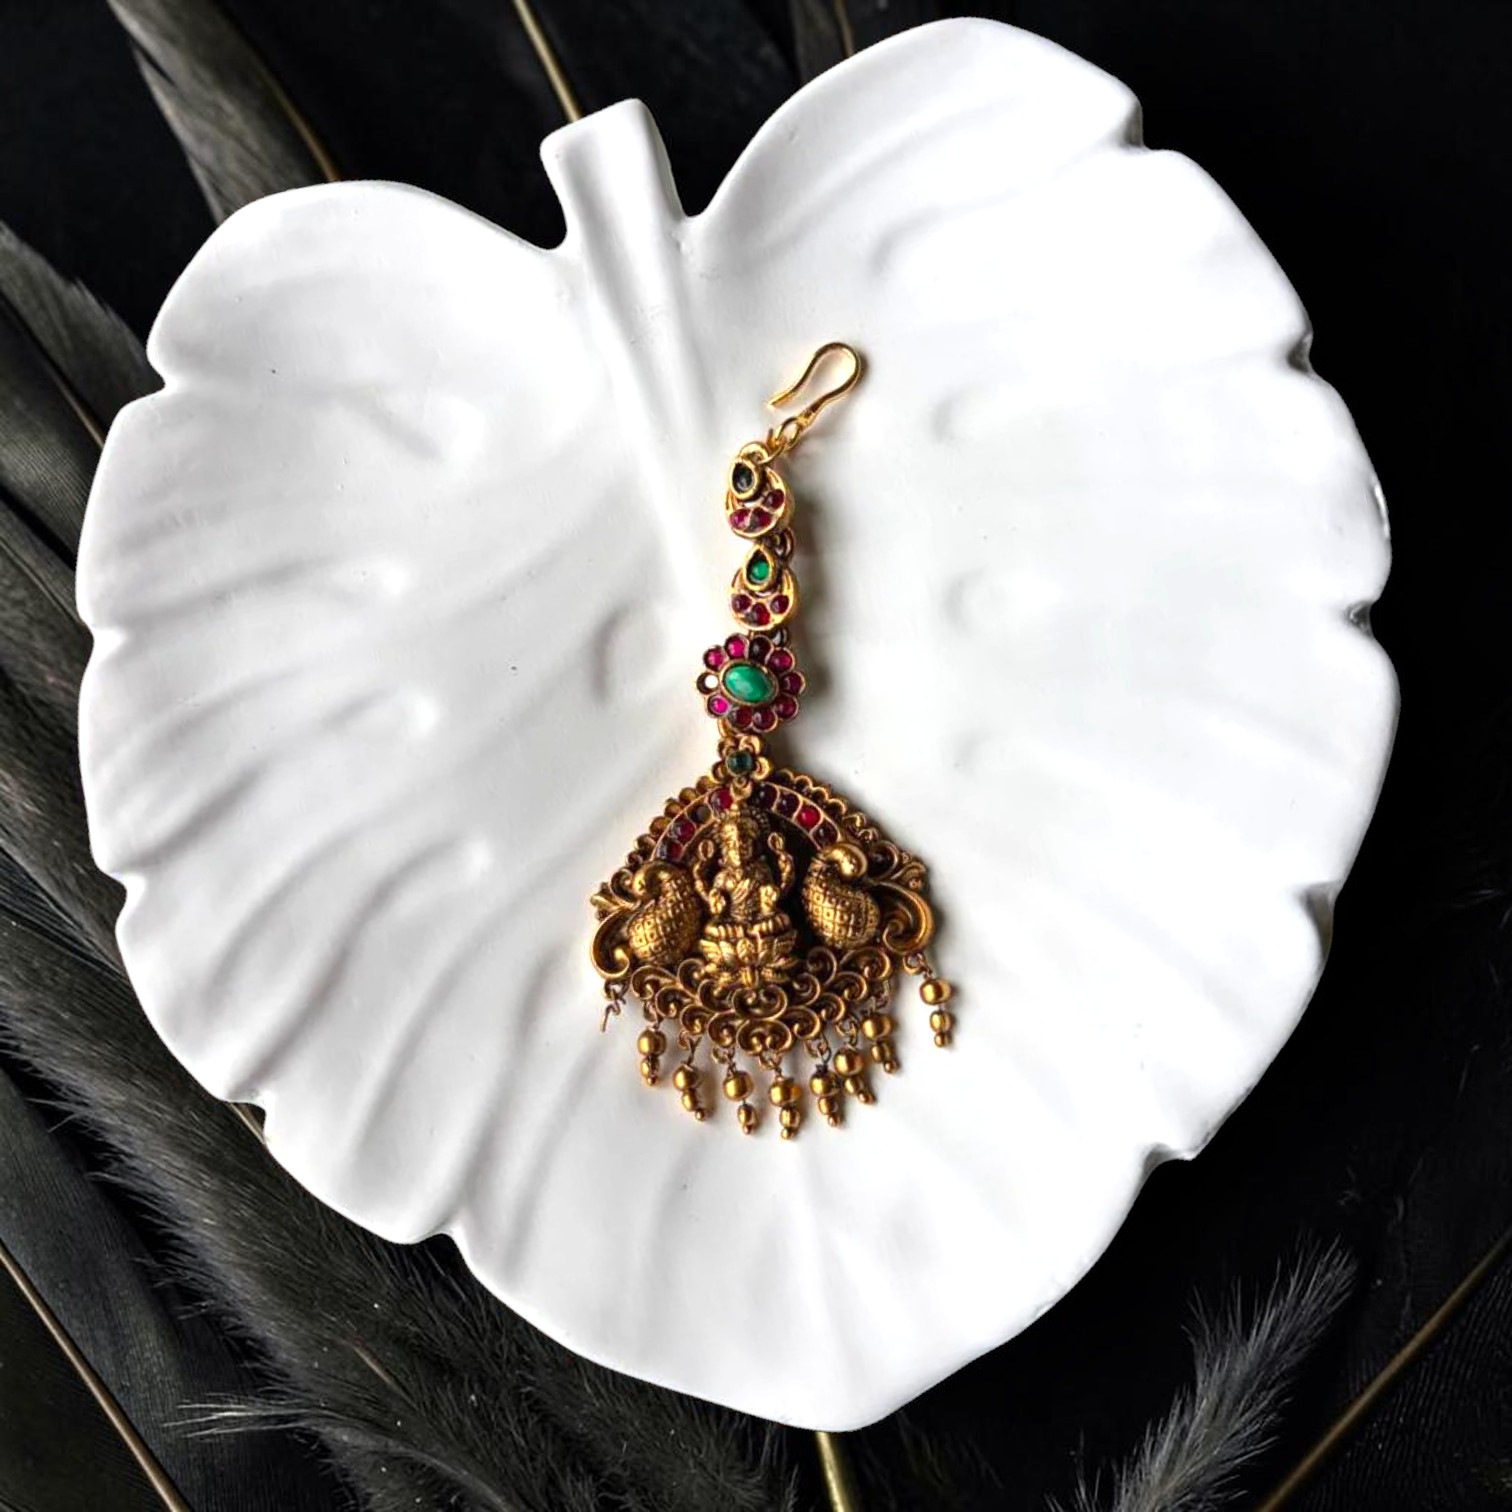
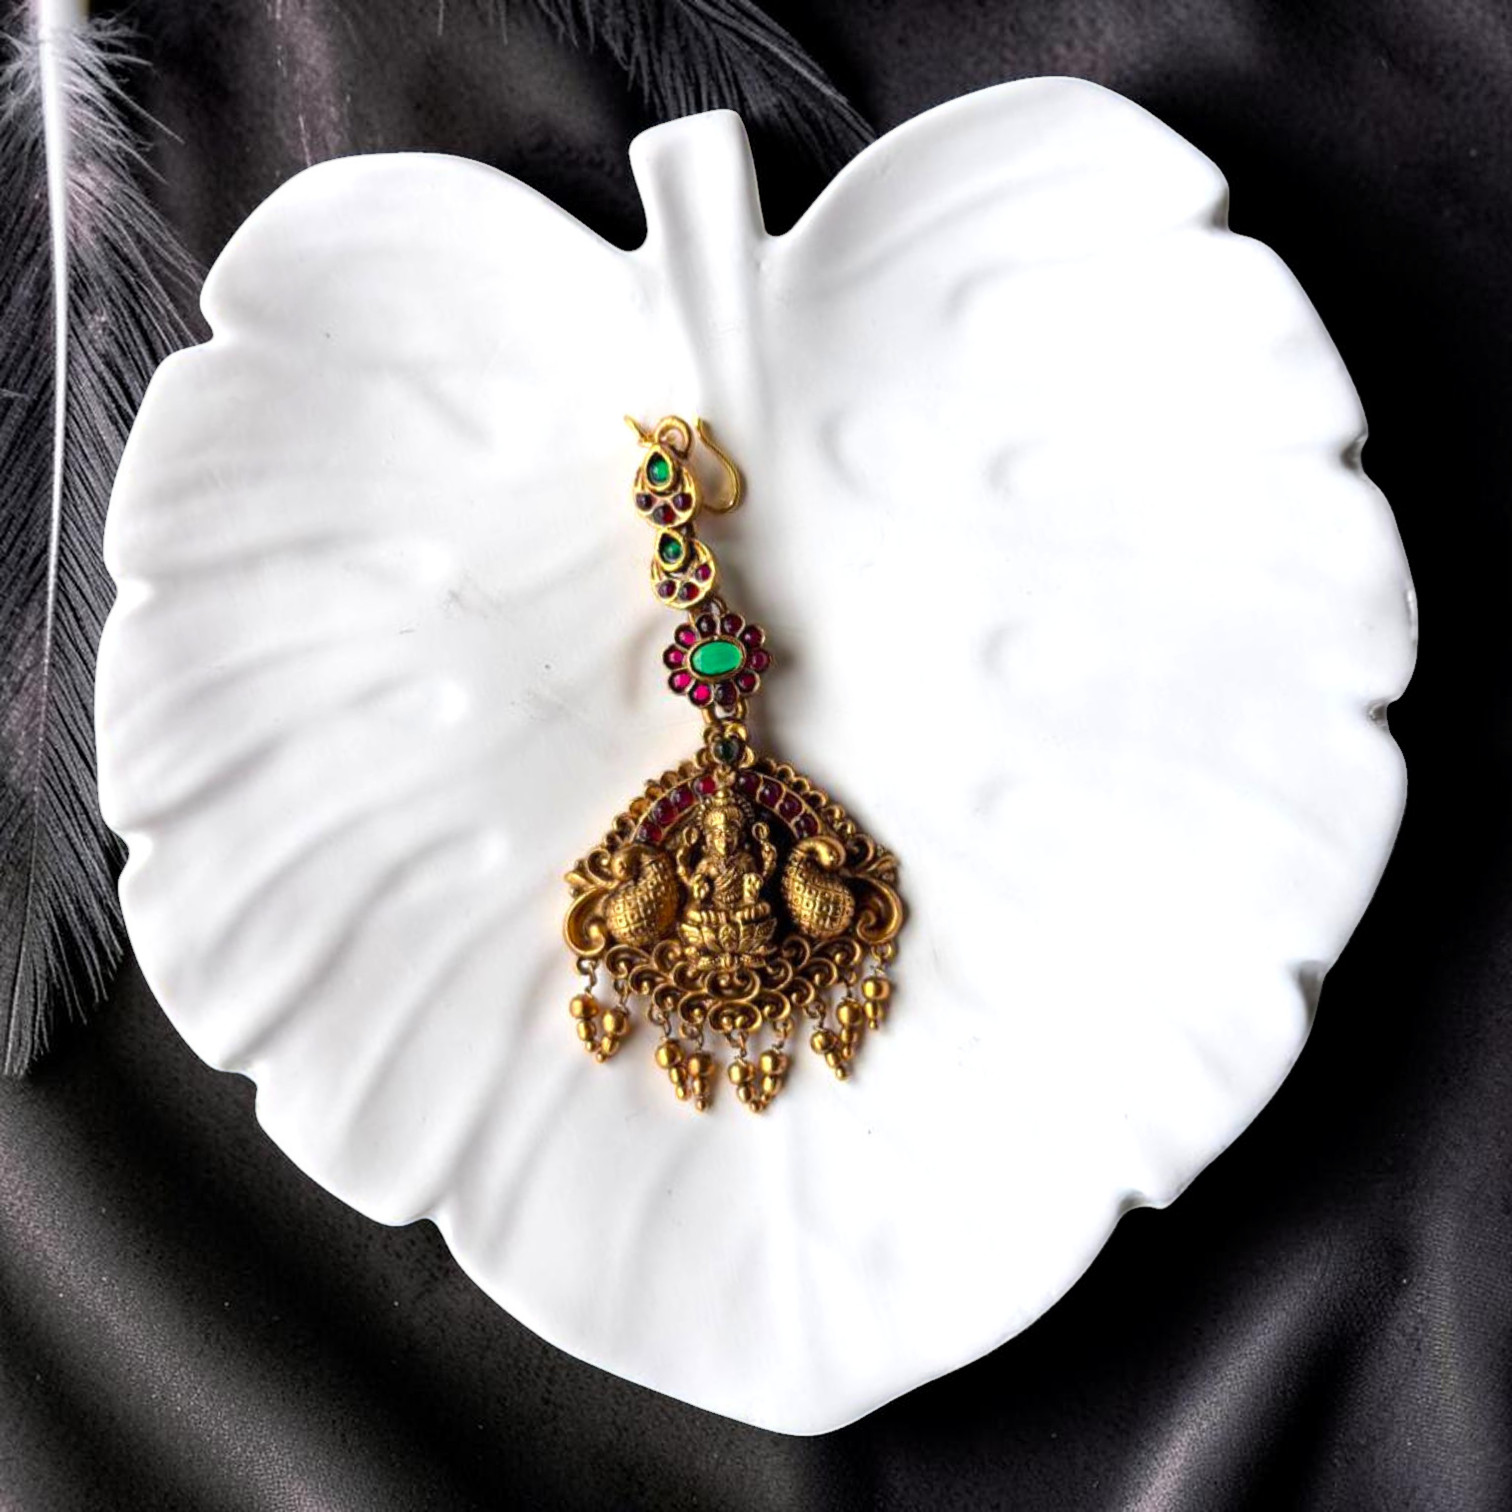
Add files via upload

diff --git a/api/notify-requests.js b/api/notify-requests.js
@@ -1,0 +1,102 @@
+const { getSql, readJson, requireAdmin, send } = require('./_db');
+
+async function ensureNotifyTable(sql) {
+  await sql`
+    create table if not exists notify_requests (
+      id serial primary key,
+      product_id integer references products(id) on delete cascade,
+      product_name text not null,
+      customer_name text,
+      email text not null,
+      status text not null default 'waiting',
+      notified_at timestamptz,
+      created_at timestamptz not null default now(),
+      updated_at timestamptz not null default now()
+    )
+  `;
+
+  await sql`
+    create index if not exists notify_requests_product_email_idx
+    on notify_requests (product_id, email)
+  `;
+}
+
+module.exports = async function handler(request, response) {
+  try {
+    const sql = getSql();
+    await ensureNotifyTable(sql);
+
+    if (request.method === 'POST') {
+      const body = await readJson(request);
+      const productId = Number(body.product_id);
+      const email = String(body.email || '').trim().toLowerCase();
+      const customerName = String(body.customer_name || '').trim();
+
+      if (!productId) return send(response, 400, { error: 'Product is required' });
+      if (!email || !email.includes('@')) return send(response, 400, { error: 'Valid email is required' });
+
+      const product = await sql`
+        select id, name, stock
+        from products
+        where id = ${productId} and active = true
+      `;
+
+      if (!product.length) return send(response, 404, { error: 'Product not found' });
+      if (Number(product[0].stock) > 0) return send(response, 400, { error: 'This product is already available' });
+
+      const existing = await sql`
+        select id
+        from notify_requests
+        where product_id = ${productId} and lower(email) = ${email}
+        limit 1
+      `;
+
+      const created = existing.length ? await sql`
+        update notify_requests
+        set customer_name = ${customerName}, status = 'waiting', notified_at = null, updated_at = now()
+        where id = ${existing[0].id}
+        returning id
+      ` : await sql`
+        insert into notify_requests (product_id, product_name, customer_name, email, status, updated_at)
+        values (${productId}, ${product[0].name}, ${customerName}, ${email}, 'waiting', now())
+        returning id
+      `;
+
+      return send(response, 200, { ok: true, id: created[0].id });
+    }
+
+    if (!requireAdmin(request, response)) return;
+
+    if (request.method === 'GET') {
+      const requests = await sql`
+        select n.id, n.product_id, n.product_name, n.customer_name, n.email, n.status, n.notified_at, n.created_at,
+          p.stock, p.image
+        from notify_requests n
+        left join products p on p.id = n.product_id
+        order by n.created_at desc
+      `;
+      return send(response, 200, { requests });
+    }
+
+    if (request.method === 'PATCH') {
+      const body = await readJson(request);
+      const id = Number(body.id);
+      const status = String(body.status || '').trim();
+      if (!id || !status) return send(response, 400, { error: 'Request id and status are required' });
+
+      const updated = await sql`
+        update notify_requests
+        set status = ${status}, updated_at = now()
+        where id = ${id}
+        returning id
+      `;
+      return send(response, 200, { ok: Boolean(updated.length) });
+    }
+
+    return send(response, 405, { error: 'Method not allowed' });
+  } catch (error) {
+    return send(response, 500, { error: error.message || 'Unable to save notify request' });
+  }
+};
+
+module.exports.ensureNotifyTable = ensureNotifyTable;

diff --git a/api/admin-products.js b/api/admin-products.js
@@ -1,4 +1,6 @@
 const { getSql, readJson, requireAdmin, send } = require('./_db');
+const { sendEmail } = require('./_email');
+const { ensureNotifyTable } = require('./notify-requests');
 
 function normalizeProduct(body) {
   return {
@@ -13,6 +15,46 @@ function normalizeProduct(body) {
     image: String(body.image || '').trim(),
     collectionId: Number(body.collection_id) || null
   };
+}
+
+async function sendRestockNotifications(sql, product) {
+  await ensureNotifyTable(sql);
+
+  const requests = await sql`
+    select id, customer_name, email
+    from notify_requests
+    where product_id = ${product.id} and status = 'waiting' and notified_at is null
+  `;
+
+  let sent = 0;
+  for (const request of requests) {
+    let emailResult;
+    try {
+      emailResult = await sendEmail({
+        to: request.email,
+        subject: `${product.name} is back in stock`,
+        html: `
+          <p>Dear ${request.customer_name || 'Customer'},</p>
+          <p>Good news! <strong>${product.name}</strong> is back in stock at NIVARA Jewellery.</p>
+          <p>You can visit <a href="https://nivarajewellery.com/">nivarajewellery.com</a> to place your order.</p>
+          <p>Warm regards,<br/>NIVARA Jewellery</p>
+        `
+      });
+    } catch (error) {
+      continue;
+    }
+
+    if (emailResult?.skipped) continue;
+
+    await sql`
+      update notify_requests
+      set status = 'notified', notified_at = now(), updated_at = now()
+      where id = ${request.id}
+    `;
+    sent++;
+  }
+
+  return sent;
 }
 
 module.exports = async function handler(request, response) {
@@ -74,6 +116,13 @@ module.exports = async function handler(request, response) {
 
           if (!id && !code) continue;
 
+          const before = hasStock ? await sql`
+            select id, stock
+            from products
+            where active = true and (${id ? sql`id = ${id}` : sql`false`} or ${code ? sql`code = ${code}` : sql`false`})
+            limit 1
+          ` : [];
+
           const updated = await sql`
             update products
             set stock = ${hasStock ? stock : sql`stock`},
@@ -84,8 +133,11 @@ module.exports = async function handler(request, response) {
                 collection_id = ${hasCollection ? collectionId : sql`collection_id`},
                 updated_at = now()
             where active = true and (${id ? sql`id = ${id}` : sql`false`} or ${code ? sql`code = ${code}` : sql`false`})
-            returning id
+            returning id, name, stock
           `;
+          if (hasStock && Number(before[0]?.stock || 0) === 0 && stock > 0 && updated[0]) {
+            await sendRestockNotifications(sql, updated[0]);
+          }
           updatedCount += updated.length;
         }
 
@@ -111,6 +163,13 @@ module.exports = async function handler(request, response) {
         return send(response, 400, { error: 'Product id is required' });
       }
 
+      const before = hasStock ? await sql`
+        select id, stock
+        from products
+        where id = ${id}
+        limit 1
+      ` : [];
+
       const updated = await sql`
         update products
         set stock = ${hasStock ? stock : sql`stock`},
@@ -127,6 +186,10 @@ module.exports = async function handler(request, response) {
 
       if (!updated.length) {
         return send(response, 404, { error: 'Product not found' });
+      }
+
+      if (hasStock && Number(before[0]?.stock || 0) === 0 && stock > 0) {
+        await sendRestockNotifications(sql, updated[0]);
       }
 
       return send(response, 200, { product: updated[0] });
